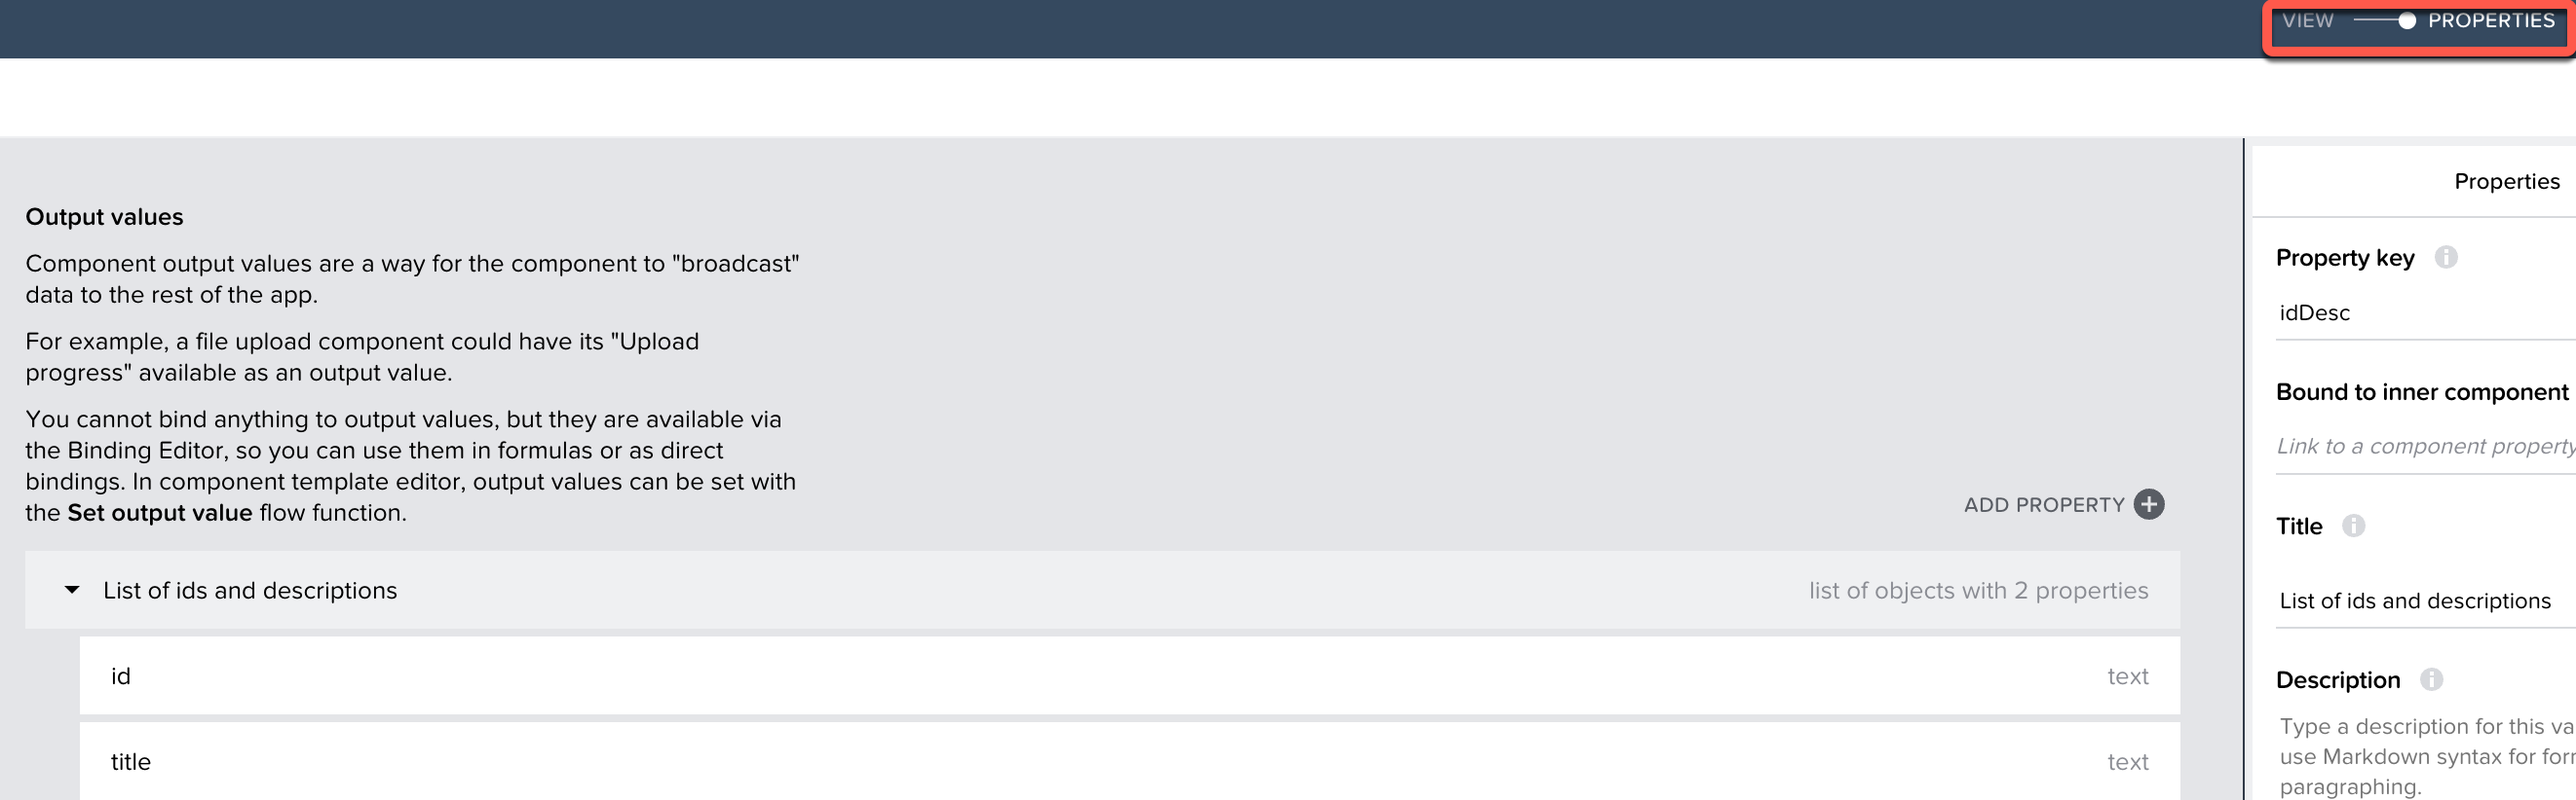
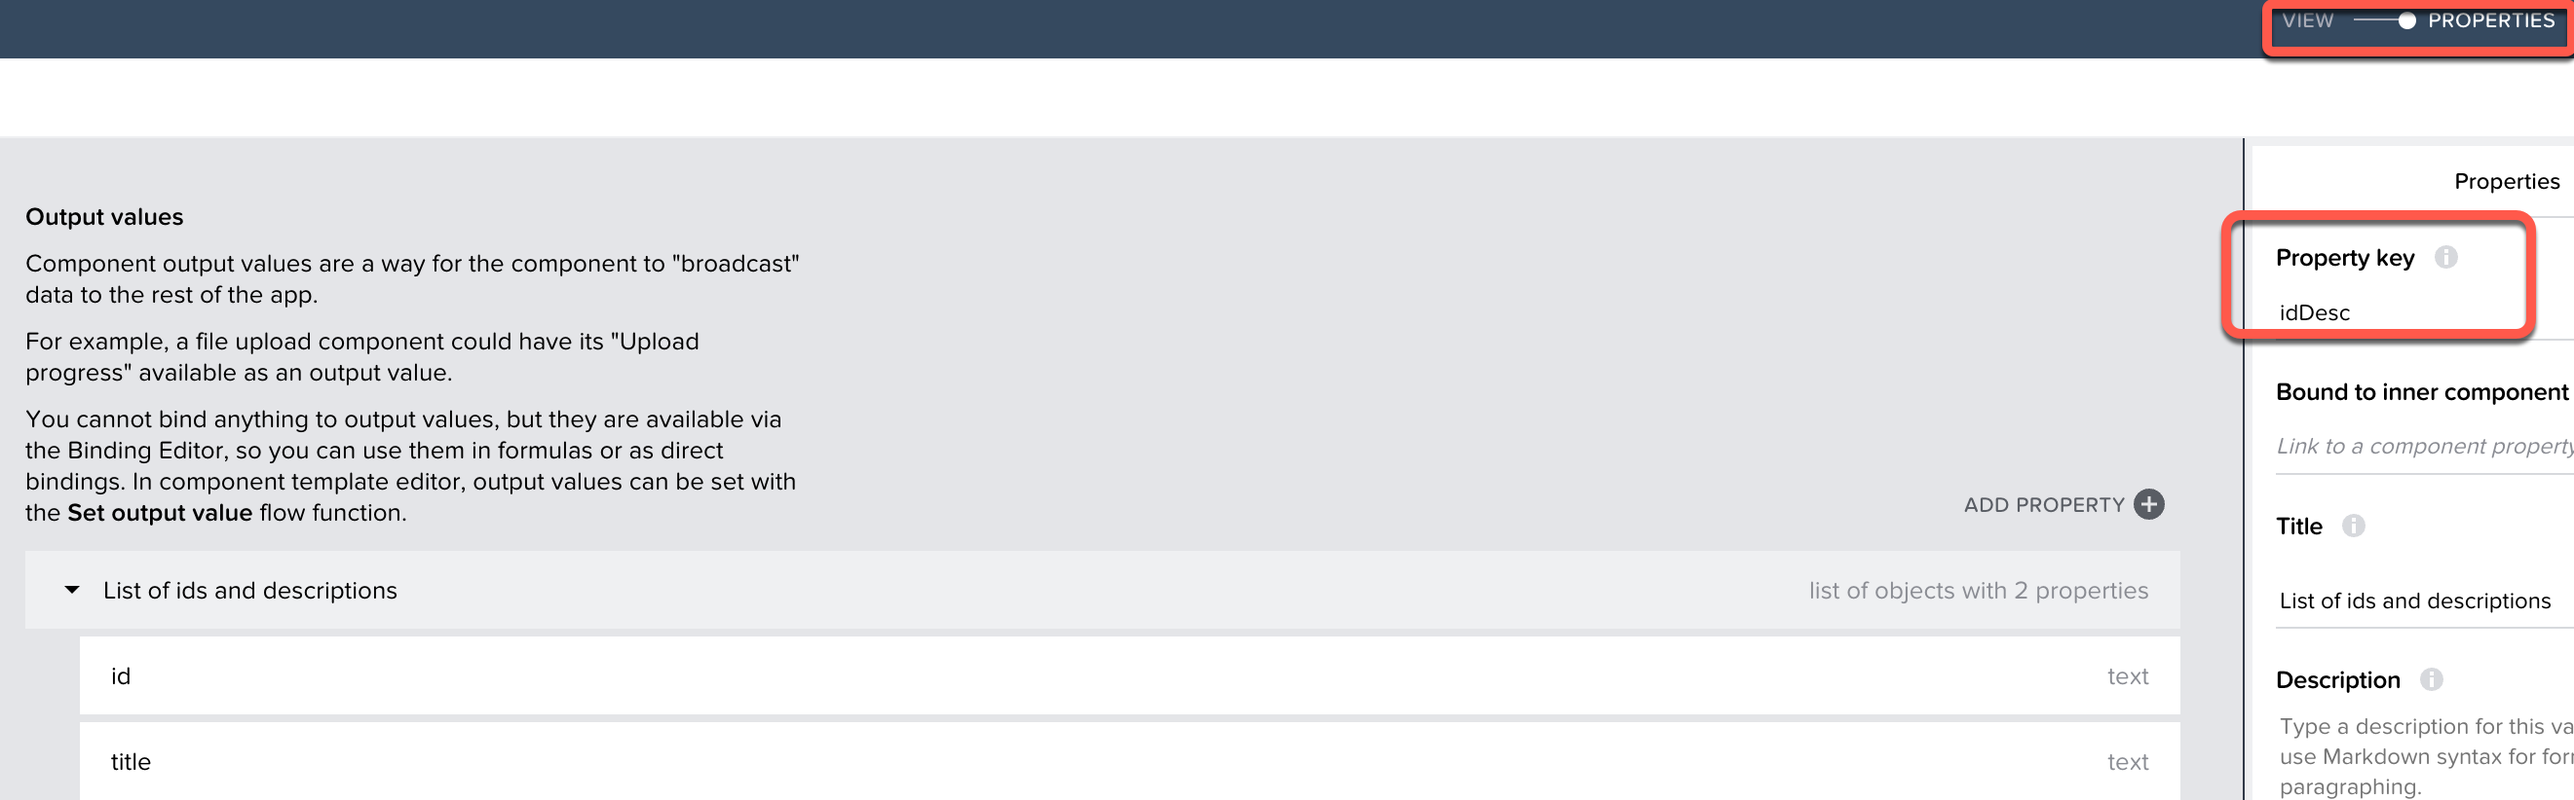
readme

diff --git a/02-LowCodeDevPortal/02-04-Integrate-portal-and-process.md b/02-LowCodeDevPortal/02-04-Integrate-portal-and-process.md
@@ -14,7 +14,7 @@ Now that your low code portal is built and request API access process deployed, 
   10. Now we will modify the outputs of the Basic Card list on the Home page to store the list of API Products during the initial refresh
      ![Component Editor](img/ComponentEditor.png)
 
-  11. Click **PROPERTIES** and add  a list of objects with 2 properties as below
+  11. Click **PROPERTIES** and add  a list of objects to output values with 2 properties as below (note the property key name for later)
      ![Output value](img/OutputValues.png)
 
   12. Return to **VIEW**, select **BASIC CARD LIST 1** from the tree, add a **Set output value** node, and connect it to the output of **Set private data variable**
